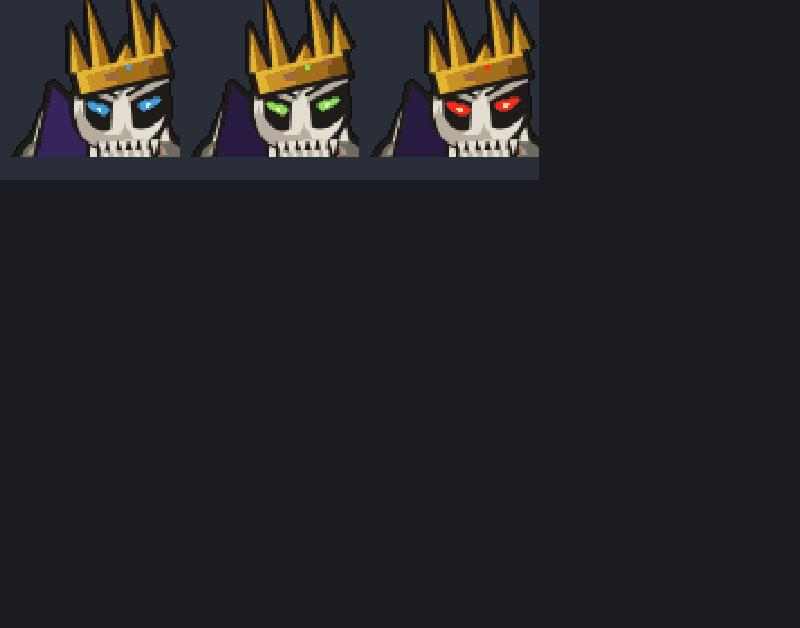
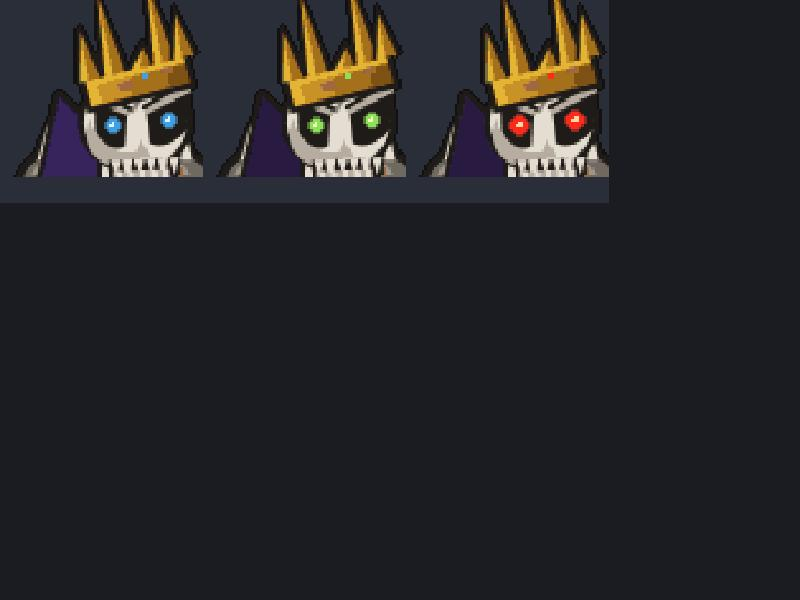
Князь: круглые зрачки

Changed region(s): [[0.0, 0.0, 0.7812, 0.33]]

diff --git a/js/world/kurganart.js b/js/world/kurganart.js
@@ -62,18 +62,14 @@ function kpSprite(fr, ph) {
   return e;
 }
 
-// злой глаз пикселями арта: косая щель, внешний край выше внутреннего (V-образный взгляд), яркая сердцевина и тлеющий ореол.
-// side -1 — левый глаз (внутренний край справа), 1 — правый.
-const KP_EYE = [['###.......', '.######...', '..#######.', '....#####.', '......##..'], ['####......', '.#######..', '..########', '...#######', '.....####.']];
+// глаз пикселями арта: круглый горящий зрачок (злость даёт надбровье над ним), раскалённая сердцевина и тлеющий ореол
+const KP_EYE = [['.###.', '#####', '#####', '#####', '.###.'], ['..###..', '.#####.', '#######', '#######', '#######', '.#####.', '..###..']];
 function kpEye(o, cx, cy, side, col, big) {
-  const rows = KP_EYE[big ? 1 : 0], w = rows[0].length, dx = side < 0 ? 0 : 1;
-  const px = (x, y, c) => { o.fillStyle = c; o.fillRect(cx - 5 + (side < 0 ? x : w - 1 - x), cy - 3 + y, 1, 1); };
-  for (let y = 0; y < rows.length; y++) for (let x = 0; x < w; x++) if (rows[y][x] === '#') {
-    // ореол вокруг щели
-    for (const [ox, oy] of [[-1, 0], [1, 0], [0, -1], [0, 1]]) if ((rows[y + oy] || '')[x + ox] !== '#' ) px(x + ox, y + oy, col[2]);
-  }
-  for (let y = 0; y < rows.length; y++) for (let x = 0; x < w; x++) if (rows[y][x] === '#') px(x, y, col[0]);
-  px(4, 2, col[1]); px(5, 2, col[1]); px(5, 3, col[1]); if (big) { px(6, 2, col[1]); px(6, 3, col[1]); }       // раскалённый зрачок
+  const rows = KP_EYE[big ? 1 : 0], w = rows[0].length, h = rows.length, x0 = cx - (w >> 1), y0 = cy - (h >> 1);
+  const px = (x, y, c) => { o.fillStyle = c; o.fillRect(x0 + x, y0 + y, 1, 1); };
+  for (let y = -1; y <= h; y++) for (let x = -1; x <= w; x++) if ((rows[y] || '')[x] !== '#' && [[-1, 0], [1, 0], [0, -1], [0, 1]].some(([ox, oy]) => (rows[y + oy] || '')[x + ox] === '#')) px(x, y, col[2]);
+  for (let y = 0; y < h; y++) for (let x = 0; x < w; x++) if (rows[y][x] === '#') px(x, y, col[0]);
+  const m = w >> 1; px(m, h >> 1, col[1]); px(m - 1, h >> 1, col[1]); px(m, (h >> 1) - 1, col[1]); if (big) { px(m + 1, h >> 1, col[1]); px(m + 1, (h >> 1) - 1, col[1]); }
 }
 
 // c — контекст сверхвыборки, ноги в (0,0), вверх = минус, князь смотрит вправо. Возвращает [[x, y, цвет, размер]…] светящихся точек.
